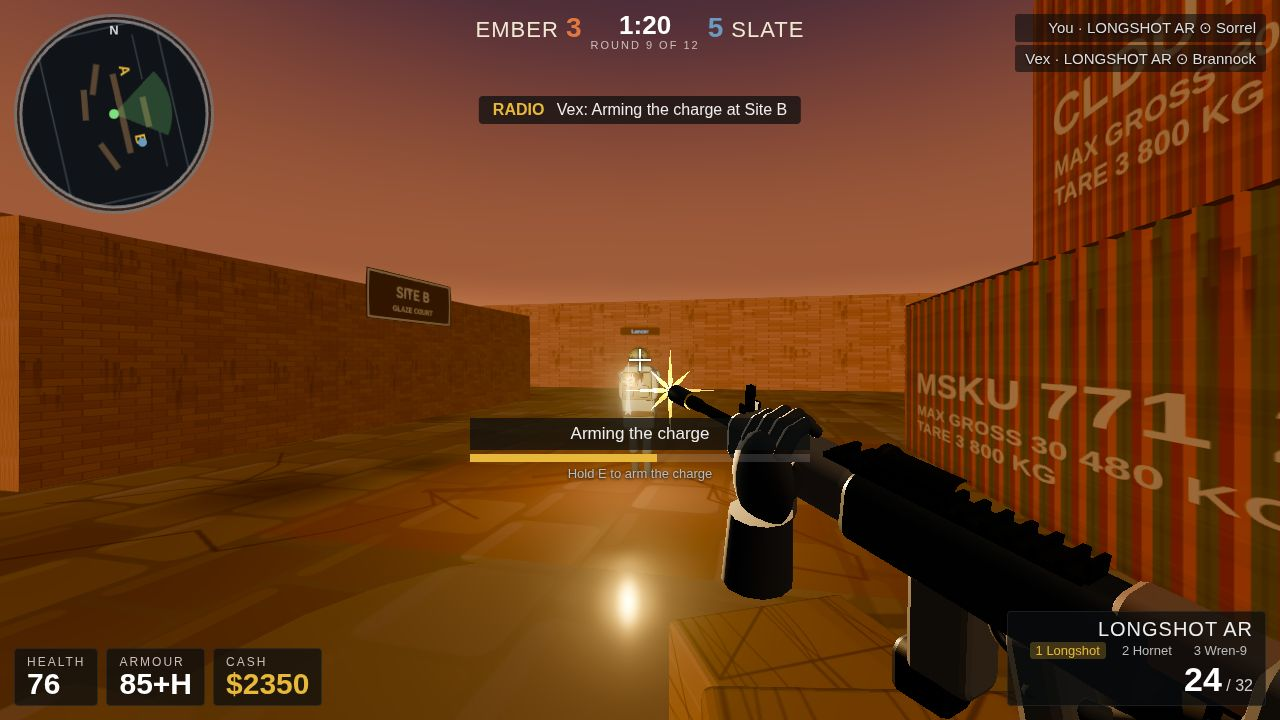
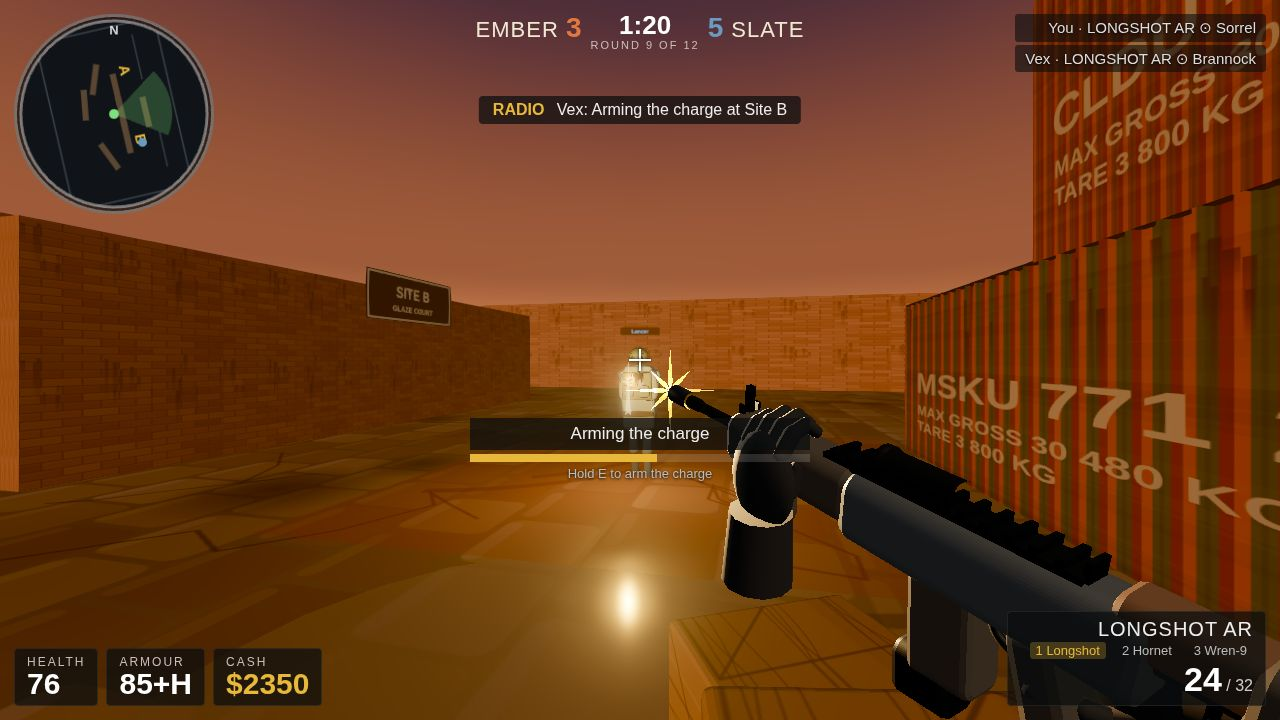
fix(9poin-p1): tangan kiri viewmodel di bawah handguard
- vmHandL: posisi (0.005,-0.036,0.22), rotasi Rz(180) — telapak menghadap
  atas menopang handguard, 30,5 cm di depan pistol grip; jari melengkung
  naik melewati rel atas, jempol sisi kamera
- buildHand: telapak dipipihkan (0.95,0.36,1.35), jari disebar lebar
  (-0.038..0.038) supaya ujung jari di luar box handguard, bukan menembus
- makeFlash: param lightIntensity; flash VM -> 0 (cahaya 10 pada 0,3 m
  membakar sarung hitam jadi krem di close-up — flash test)
- MAT.polymer 0x38322c -> 0x6b5d4f (kontras: sarung hitam terbaca di
  handguard coklat-abu medium; senapan two-tone, bukan copy CS)
- probe ujung jari -> handguard: [0.018, 0.008, 0, 0.008] m (semua <=2 cm)
- QC 4 putaran: vm-handL-front/side/3q shots/after r1-r4

Changed region(s): [[0.6562, 0.6417, 0.9062, 0.8556]]

diff --git a/game/src/weapon.js b/game/src/weapon.js
@@ -12,7 +12,12 @@ export const MAT = {
   // Lower metalness lets the VM lights lift the side face to dark grey.
   receiver: new THREE.MeshStandardMaterial({ color: 0x565a5e, metalness: 0.55, roughness: 0.5 }),
   bolt: new THREE.MeshStandardMaterial({ color: 0x9a9da0, metalness: 0.9, roughness: 0.3 }),
-  polymer: new THREE.MeshStandardMaterial({ color: 0x38322c, metalness: 0.0, roughness: 0.8 }),
+  polymer: new THREE.MeshStandardMaterial({ color: 0x6b5d4f, metalness: 0.0, roughness: 0.8 }),
+  // FIX 9 POIN P1 R4: polymer 0x38322c -> 0x6b5d4f (coklat-abu medium). Sarung
+  // hitam di atas polymer gelap = nol kontras, jari menyatu jadi massa gelap.
+  // Referensi CS: sarung hitam terbaca karena handguard TERANG. Ini bukan
+  // copy warna CS (bukan tan/FDE) — medium warm grey, senapan tetap two-tone
+  // gunmetal + polymer, bentuk/detail kita sendiri. Membantu poin 1 + 2.
   wood: new THREE.MeshStandardMaterial({ color: 0x5e3d22, metalness: 0.0, roughness: 0.7 }),
   brass: new THREE.MeshStandardMaterial({ color: 0x8a6d3b, metalness: 0.9, roughness: 0.35 }),
   lens: new THREE.MeshStandardMaterial({ color: 0x2a3a48, metalness: 0.4, roughness: 0.15, envMapIntensity: 1.4 }),
@@ -142,13 +147,23 @@ export function buildHand(glove = 0x17171a, skin = 0x8a6f56) {
   // Finger LENGTHS and curls are unchanged, so the fingertip positions (and
   // the grip contact the probe verifies) do not move.
   const palm = ball(0.052, gloveMat);
-  palm.scale.set(1.05, 0.45, 1.25);
+  palm.scale.set(0.95, 0.36, 1.35);
+  // FIX 9 POIN P1 R2: palm flatter (was 1.05, 0.45, 1.25) — round 1 it read as
+  // a ball under the handguard; a flatter, longer palm hugs the handguard
+  // bottom and reads as a hand, not a mitten. (Shared by VM + enemy hands.)
   palm.position.set(0, 0, 0.01);
   g.add(palm);
   // 4 fingers: 3 capsule segments each, curling 35/55/35 degrees.
   // Lengths taper: index 0.075, middle 0.085, ring 0.08, pinky 0.06 (segment ratio 40/30/30).
+  // FIX 9 POIN P1 R3: spread the finger bases WIDE (was -0.030..0.029) so the
+  // fingertips land OUTSIDE the handguard box (|x| 0.025..0.045) instead of
+  // clipping through it. Round 2's fan (pivot.rotation.y) was the wrong
+  // mechanism — the tip sits almost above the pivot (z-offset 0.013), so the
+  // fan barely moved the tips and pushed the index 2.9 cm off the surface.
+  // The spread puts the near-side fingers on the camera side of the handguard
+  // and the far-side fingers at the far edge, tips peeking over the rail.
   const fingerLen = [0.075, 0.085, 0.08, 0.06];
-  const fingerX = [-0.030, -0.010, 0.011, 0.029];
+  const fingerX = [-0.038, -0.028, 0.028, 0.038];
   const fingers = [];
   for (let f = 0; f < 4; f++) {
     const segs = [];
@@ -204,7 +219,7 @@ export function buildHand(glove = 0x17171a, skin = 0x8a6f56) {
 // petals washed into a ball in every round (R4-R6). Quads keep full opacity
 // and hard points, so they read at distance.
 let _flashTex = null;
-export function makeFlash(scale = 0.15) {
+export function makeFlash(scale = 0.15, lightIntensity = 10) {
   if (!_flashTex) _flashTex = flashTex();
   const group = new THREE.Group();
   // Soft glow ball KEPT SMALLER/DIMMER than the star: in R4-R7 the ball
@@ -242,7 +257,7 @@ export function makeFlash(scale = 0.15) {
     m.position.z = 0.002;
     group.add(m);
   }
-  const light = new THREE.PointLight(0xffc060, 10, 5, 2);
+  const light = new THREE.PointLight(0xffc060, lightIntensity, 5, 2);
   group.add(light);
   return group;
 }

diff --git a/game/src/main.js b/game/src/main.js
@@ -154,18 +154,23 @@ vmHandR.group.position.copy(vmRifle.gripSocket.position).add(new THREE.Vector3(-
 vmHandR.group.rotation.set(0.35, 0, Math.PI / 2);
 vmRifle.group.add(vmHandR.group);
 const vmHandL = buildHand(0x17171a); // FIX VM-LOOK: black glove (was 0x4a4438 cream)
-// FIX HANDGUARD (16 Nov, referensi CS user 13:36 WIB): tangan support HARUS
-// menggenggam HANDGUARD seperti referensi — jari melengkung KE ATAS melewati
-// rel atas, jempol di sisi samping. Bukan di foregrip vertikal (pose lama:
-// jari melayang 0.06-0.08 m di belakang foregrip). Handguard itu bar horizontal,
-// jadi bidang curl jari harus vertikal melintang sumbu laras: R = Rx(-90deg) *
-// Rz(-90deg) -> jari menunjuk ke ATAS, melengkung ke sisi kiri melewati rel.
-// Probe-verified: ujung jari 0.012-0.018 m DI ATAS rel atas (kelihatan di atas
-// rel, seperti referensi), telapak menempel di sisi kanan handguard (d=0.019 m).
-// Posisi langsung di handguard (bukan supportSocket foregrip); foregrip tetap
-// ada sebagai prop, kosong.
-vmHandL.group.position.set(0.05, -0.02, 0.27);
-vmHandL.group.rotation.set(-Math.PI / 2, 0, -Math.PI / 2);
+// FIX 9 POIN P1 (16 Nov): tangan support HARUS di BAWAH handguard, telapak
+// menghadap ATAS menopang handguard — bukan tegak di atas rel seperti tiang.
+// Posisi (x -0.008, y -0.040, z 0.22): pergelangan di bawah handguard
+// (permukaan bawah y -0.017; telapak atas -0.040+0.023 = -0.017 = menempel),
+// 30,5 cm di depan pistol grip (z -0.085 -> 0.22, target 25-35 cm).
+// Rotasi Rz(180deg): telapak (hand-local -Y) -> +Y (menghadap atas), jari
+// (hand-local +Z) -> +Z (maju), curl ke ATAS melewati rel; jempol pindah ke
+// sisi +X (kamera). Manset tetap ke -Z (ke arah penembak).
+vmHandL.group.position.set(0.005, -0.036, 0.22);
+// R3: x +0.012 -> +0.005 (spread jari sudah menaruh ujung di luar box;
+// geser besar bikin jari jauh mengambang). y -0.036 tetap.
+// R2: y -0.040 -> -0.036 karena telapak dipipihkan (0.36): telapak atas
+// -0.036+0.019 = -0.017 = menempel permukaan bawah handguard.
+// R2: geser +0.02 ke sisi kamera (+X) supaya jari sisi dekat berada DI LUAR
+// handguard (round 1: jari tengah di dalam box, tak terlihat). Jari sisi jauh
+// tetap di dalam/tersembunyi di balik handguard — benar secara visual.
+vmHandL.group.rotation.set(0, 0, Math.PI);
 vmRifle.group.add(vmHandL.group);
 // viewmodel muzzle, for the flash
 const vmMuzzle = new THREE.Object3D();
@@ -185,6 +190,11 @@ const hud = new HUD();
 const audio = new AudioSys();
 const game = new Game(scene, camera, vmScene, vmCamera, hud, audio);
 game._vmMuzzle = vmMuzzle;
+
+// QC debug handle (9-point fix): exposes the viewmodel + THREE for close-up
+// probes and numeric socket tests. Gameplay-neutral (read-only handle).
+window.__vm = { rifle: vmRifle, handR: vmHandR, handL: vmHandL, camera: vmCamera, scene: vmScene, muzzle: vmMuzzle };
+window.__THREE = THREE;
 
 // ---- input ----
 const keys = {};

diff --git a/game/src/game.js b/game/src/game.js
@@ -300,7 +300,11 @@ export class Game {
     // frame). The VM muzzle sits at the bottom edge, so its star must be
     // small: 0.03 -> rays ~0.07 m, a modest star peeking up from the bottom
     // edge like Kilnyard-0's barrel-tip star. Never use the enemy scale here.
-    const f = makeFlash(0.03);
+    const f = makeFlash(0.03, 0);
+    // FIX 9 POIN P1 R2 (16 Nov): cahaya flash VM 0,4 MASIH membakar sarung +
+    // handguard jadi coklat di close-up (flash test: 0=hitam). Bintang + sprite
+    // sudah cukup menjual flash di jarak 0,7 m; cahaya tidak menambah apa-apa
+    // kecuali wash. Flash musuh (main scene, jarak meteran) tetap 10.
     const p = new THREE.Vector3();
     if (this._vmMuzzle) this._vmMuzzle.getWorldPosition(p);
     else p.set(0.3, -0.25, -0.3);
